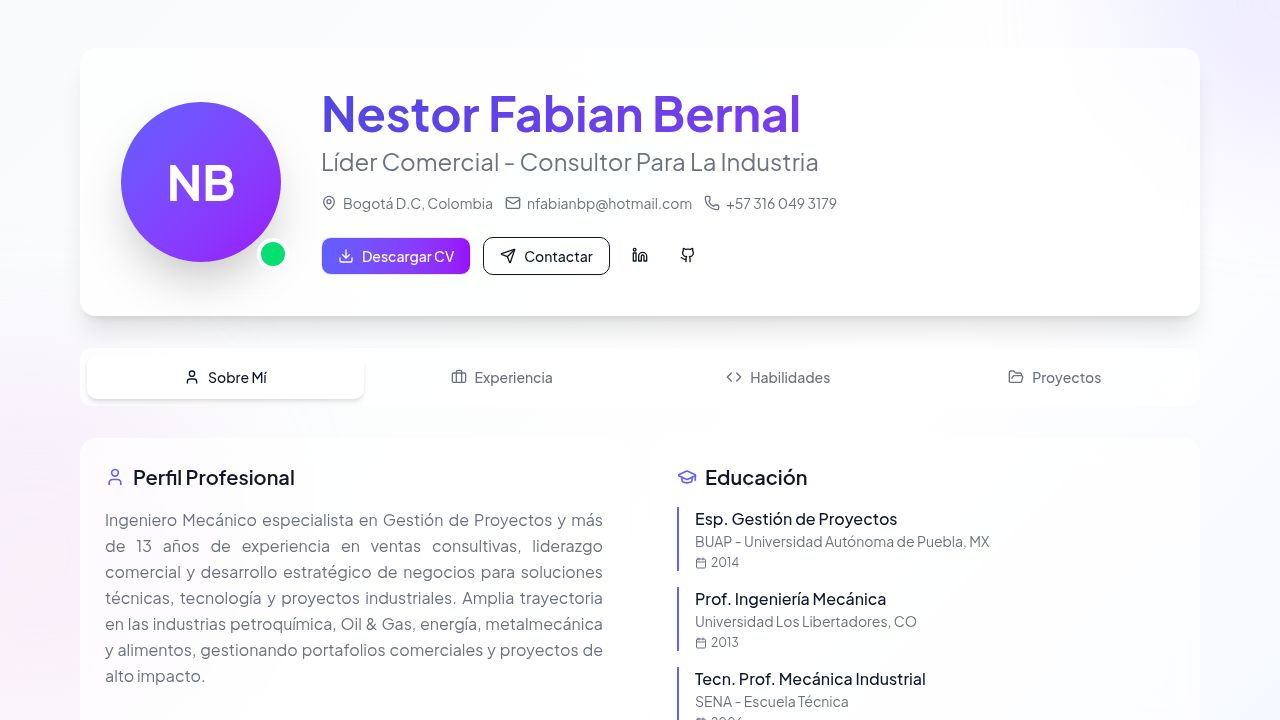
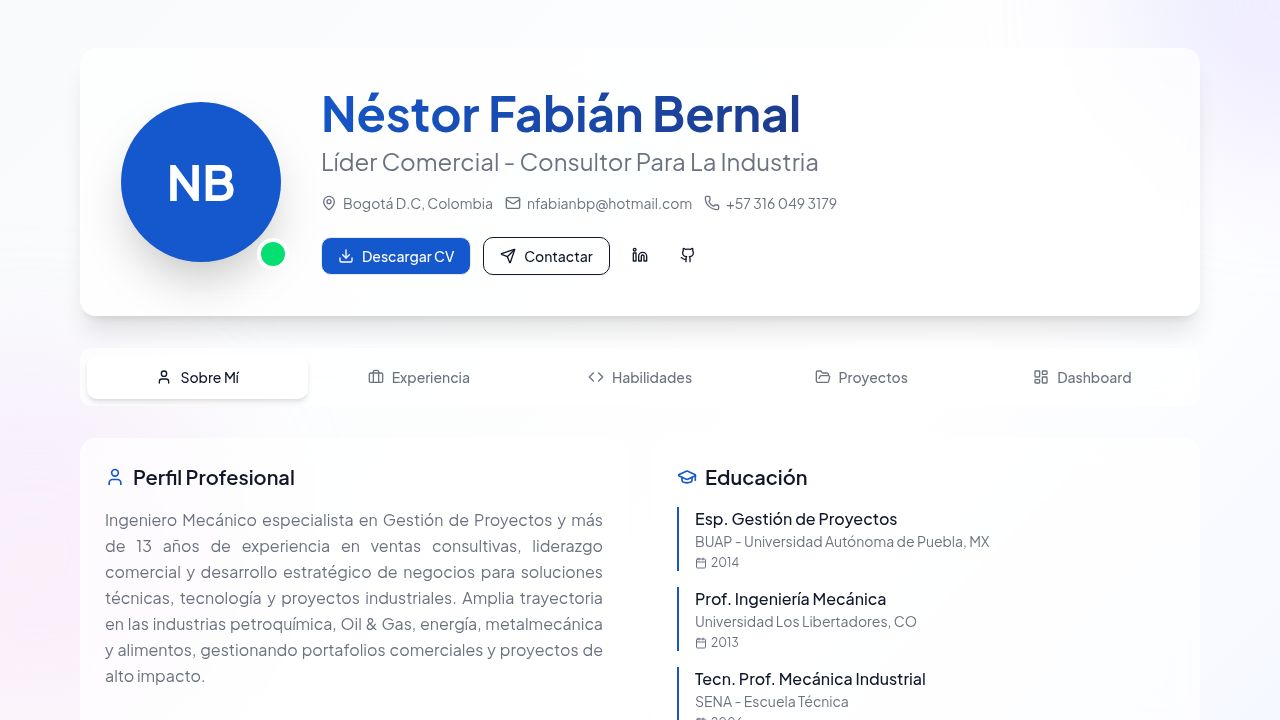
Update the website's primary color to a new shade of blue
Modify CSS variables and component styles in `client/index.css` and `client/src/pages/resume.tsx` to reflect the new primary color #1557cc.

Replit-Commit-Author: Agent
Replit-Commit-Session-Id: 828f5ca5-3470-420c-8302-881651feb5ef
Replit-Commit-Checkpoint-Type: full_checkpoint
Replit-Commit-Event-Id: aa67bb7c-5a23-4d16-8111-3fa36d46ec3d
Replit-Commit-Screenshot-Url: https://storage.googleapis.com/screenshot-production-us-central1/3b203910-4ea5-47d2-b5c2-e4d225c7a30f/828f5ca5-3470-420c-8302-881651feb5ef/2GFoAX9
Replit-Helium-Checkpoint-Created: true

diff --git a/client/src/pages/resume.tsx b/client/src/pages/resume.tsx
@@ -153,7 +153,7 @@ export default function Resume() {
               whileHover={{ scale: 1.05 }}
               transition={{ type: "spring", stiffness: 300 }}
             >
-              <div className="w-32 h-32 md:w-40 md:h-40 rounded-full bg-[#142157] flex items-center justify-center text-white text-4xl md:text-5xl font-bold shadow-2xl">
+              <div className="w-32 h-32 md:w-40 md:h-40 rounded-full bg-[#1557cc] flex items-center justify-center text-white text-4xl md:text-5xl font-bold shadow-2xl">
                 NB
               </div>
               <div className="absolute -bottom-2 -right-2 w-8 h-8 bg-green-400 rounded-full border-4 border-white" />
@@ -183,7 +183,7 @@ export default function Resume() {
               </div>
 
               <div className="flex flex-wrap justify-center md:justify-start gap-3">
-                <Button className="gap-2 bg-[#142157] hover:bg-[#1e3a8a]" data-testid="button-download-cv">
+                <Button className="gap-2 bg-[#1557cc] hover:bg-[#1e3a8a]" data-testid="button-download-cv">
                   <Download className="w-4 h-4" />
                   Descargar CV
                 </Button>
@@ -244,7 +244,7 @@ export default function Resume() {
               >
                 <div className="glass rounded-2xl p-6 card-hover">
                   <h2 className="text-xl font-semibold mb-4 flex items-center gap-2">
-                    <User className="w-5 h-5 text-[#142157]" />
+                    <User className="w-5 h-5 text-[#1557cc]" />
                     Perfil Profesional
                   </h2>
                   <p className="text-muted-foreground leading-relaxed whitespace-pre-line text-justify" data-testid="text-bio">
@@ -254,12 +254,12 @@ export default function Resume() {
 
                 <div className="glass rounded-2xl p-6 card-hover">
                   <h2 className="text-xl font-semibold mb-4 flex items-center gap-2">
-                    <GraduationCap className="w-5 h-5 text-[#142157]" />
+                    <GraduationCap className="w-5 h-5 text-[#1557cc]" />
                     Educación
                   </h2>
                   <div className="space-y-4">
                     {education.map((edu, index) => (
-                      <div key={index} className="border-l-2 border-[#142157] pl-4">
+                      <div key={index} className="border-l-2 border-[#1557cc] pl-4">
                         <h3 className="font-medium" data-testid={`text-degree-${index}`}>{edu.degree}</h3>
                         <p className="text-sm text-muted-foreground">{edu.school}</p>
                         <p className="text-xs text-muted-foreground flex items-center gap-1 mt-1">
@@ -271,14 +271,14 @@ export default function Resume() {
                   </div>
 
                   <h2 className="text-xl font-semibold mb-4 mt-14 flex items-center gap-2">
-                    <Languages className="w-5 h-5 text-[#142157]" />
+                    <Languages className="w-5 h-5 text-[#1557cc]" />
                     Idiomas
                   </h2>
                   <div className="space-y-2">
-                    <div className="border-l-2 border-[#142157] pl-4">
+                    <div className="border-l-2 border-[#1557cc] pl-4">
                       <h3 className="font-medium" data-testid="text-language-english">Inglés B2 - Intermedio</h3>
                     </div>
-                    <div className="border-l-2 border-[#142157] pl-4">
+                    <div className="border-l-2 border-[#1557cc] pl-4">
                       <h3 className="font-medium" data-testid="text-language-spanish">Español - Nativo</h3>
                     </div>
                   </div>
@@ -286,7 +286,7 @@ export default function Resume() {
 
                 <div className="glass rounded-2xl p-6 card-hover md:col-span-2">
                   <h2 className="text-xl font-semibold mb-4 flex items-center gap-2">
-                    <Award className="w-5 h-5 text-[#142157]" />
+                    <Award className="w-5 h-5 text-[#1557cc]" />
                     Certificaciones
                   </h2>
                   <div className="flex flex-wrap gap-3">
@@ -294,7 +294,7 @@ export default function Resume() {
                       <Badge 
                         key={index} 
                         variant="secondary" 
-                        className="px-4 py-2 text-sm bg-gradient-to-r from-blue-50 to-slate-50 border border-[#142157]/20"
+                        className="px-4 py-2 text-sm bg-gradient-to-r from-blue-50 to-slate-50 border border-[#1557cc]/20"
                         data-testid={`badge-cert-${index}`}
                       >
                         {cert}
@@ -323,7 +323,7 @@ export default function Resume() {
                     <div className="flex flex-col md:flex-row md:items-start md:justify-between gap-4 mb-4">
                       <div>
                         <h3 className="text-xl font-semibold text-foreground whitespace-pre-line">{exp.role}</h3>
-                        <p className="text-[#142157] font-medium">{exp.company}</p>
+                        <p className="text-[#1557cc] font-medium">{exp.company}</p>
                       </div>
                       <Badge variant="outline" className="w-fit flex items-center gap-1.5">
                         <Calendar className="w-3.5 h-3.5" />
@@ -335,7 +335,7 @@ export default function Resume() {
                       {exp.technologies.map((tech, techIndex) => (
                         <Badge 
                           key={techIndex} 
-                          className="bg-[#142157]/10 text-[#142157] hover:bg-[#142157]/20"
+                          className="bg-[#1557cc]/10 text-[#1557cc] hover:bg-[#1557cc]/20"
                         >
                           {tech}
                         </Badge>
@@ -361,7 +361,7 @@ export default function Resume() {
                         variant={skillFilter === filter ? "default" : "outline"}
                         size="sm"
                         onClick={() => setSkillFilter(filter)}
-                        className={skillFilter === filter ? "bg-[#142157]" : ""}
+                        className={skillFilter === filter ? "bg-[#1557cc]" : ""}
                         data-testid={`button-filter-${filter}`}
                       >
                         {filter === "all" ? "Todas" : "Software"}
@@ -466,7 +466,7 @@ export default function Resume() {
                     transition={{ delay: 0.1 }}
                   >
                     <div className="flex items-center gap-3 mb-2">
-                      <div className="p-2 rounded-lg bg-[#142157]">
+                      <div className="p-2 rounded-lg bg-[#1557cc]">
                         <TrendingUp className="w-5 h-5 text-white" />
                       </div>
                       <span className="text-sm text-muted-foreground">Años Exp.</span>
@@ -528,13 +528,13 @@ export default function Resume() {
                     transition={{ delay: 0.3 }}
                   >
                     <h3 className="text-lg font-semibold mb-4 flex items-center gap-2">
-                      <Briefcase className="w-5 h-5 text-[#142157]" />
+                      <Briefcase className="w-5 h-5 text-[#1557cc]" />
                       Trayectoria Profesional
                     </h3>
                     <div className="space-y-4">
                       {experiences.map((exp, index) => (
                         <div key={exp.id} className="flex items-start gap-3">
-                          <div className="w-3 h-3 rounded-full bg-[#142157] mt-1.5 flex-shrink-0" />
+                          <div className="w-3 h-3 rounded-full bg-[#1557cc] mt-1.5 flex-shrink-0" />
                           <div className="flex-1">
                             <div className="flex justify-between items-start flex-wrap gap-2">
                               <p className="font-medium text-sm">{exp.company}</p>
@@ -554,7 +554,7 @@ export default function Resume() {
                     transition={{ delay: 0.35 }}
                   >
                     <h3 className="text-lg font-semibold mb-4 flex items-center gap-2">
-                      <Code className="w-5 h-5 text-[#142157]" />
+                      <Code className="w-5 h-5 text-[#1557cc]" />
                       Dominio de Herramientas
                     </h3>
                     <div className="space-y-3">
@@ -586,15 +586,15 @@ export default function Resume() {
                     transition={{ delay: 0.4 }}
                   >
                     <h3 className="text-lg font-semibold mb-4 flex items-center gap-2">
-                      <GraduationCap className="w-5 h-5 text-[#142157]" />
+                      <GraduationCap className="w-5 h-5 text-[#1557cc]" />
                       Formación
                     </h3>
                     <div className="space-y-3">
                       {education.map((edu, index) => (
-                        <div key={index} className="border-l-2 border-[#142157] pl-3">
+                        <div key={index} className="border-l-2 border-[#1557cc] pl-3">
                           <p className="font-medium text-sm">{edu.degree}</p>
                           <p className="text-xs text-muted-foreground">{edu.school}</p>
-                          <p className="text-xs text-[#142157]">{edu.year}</p>
+                          <p className="text-xs text-[#1557cc]">{edu.year}</p>
                         </div>
                       ))}
                     </div>
@@ -607,13 +607,13 @@ export default function Resume() {
                     transition={{ delay: 0.45 }}
                   >
                     <h3 className="text-lg font-semibold mb-4 flex items-center gap-2">
-                      <Award className="w-5 h-5 text-[#142157]" />
+                      <Award className="w-5 h-5 text-[#1557cc]" />
                       Certificaciones
                     </h3>
                     <div className="space-y-2">
                       {certifications.map((cert, index) => (
                         <div key={index} className="flex items-center gap-2">
-                          <div className="w-2 h-2 rounded-full bg-[#142157]" />
+                          <div className="w-2 h-2 rounded-full bg-[#1557cc]" />
                           <p className="text-sm">{cert}</p>
                         </div>
                       ))}
@@ -627,14 +627,14 @@ export default function Resume() {
                     transition={{ delay: 0.5 }}
                   >
                     <h3 className="text-lg font-semibold mb-4 flex items-center gap-2">
-                      <Languages className="w-5 h-5 text-[#142157]" />
+                      <Languages className="w-5 h-5 text-[#1557cc]" />
                       Idiomas
                     </h3>
                     <div className="space-y-3">
                       <div>
                         <div className="flex justify-between text-sm mb-1">
                           <span>Español</span>
-                          <span className="text-[#142157]">Nativo</span>
+                          <span className="text-[#1557cc]">Nativo</span>
                         </div>
                         <div className="h-2 bg-slate-100 rounded-full overflow-hidden">
                           <motion.div
@@ -648,7 +648,7 @@ export default function Resume() {
                       <div>
                         <div className="flex justify-between text-sm mb-1">
                           <span>Inglés</span>
-                          <span className="text-[#142157]">B2 - Intermedio</span>
+                          <span className="text-[#1557cc]">B2 - Intermedio</span>
                         </div>
                         <div className="h-2 bg-slate-100 rounded-full overflow-hidden">
                           <motion.div
@@ -670,7 +670,7 @@ export default function Resume() {
                   transition={{ delay: 0.55 }}
                 >
                   <h3 className="text-lg font-semibold mb-4 flex items-center gap-2">
-                    <FolderOpen className="w-5 h-5 text-[#142157]" />
+                    <FolderOpen className="w-5 h-5 text-[#1557cc]" />
                     Proyectos Destacados
                   </h3>
                   <div className="grid md:grid-cols-3 gap-4">
@@ -697,14 +697,14 @@ export default function Resume() {
                   transition={{ delay: 0.6 }}
                 >
                   <h3 className="text-lg font-semibold mb-4 flex items-center gap-2">
-                    <Target className="w-5 h-5 text-[#142157]" />
+                    <Target className="w-5 h-5 text-[#1557cc]" />
                     Industrias de Experiencia
                   </h3>
                   <div className="flex flex-wrap gap-2">
                     {["Oil & Gas", "Energía", "Petroquímica", "Alimentos", "Metalmecánica", "Construcción Naval", "Hidroeléctrica"].map((industry, index) => (
                       <Badge 
                         key={index}
-                        className="px-4 py-2 bg-[#142157] text-white"
+                        className="px-4 py-2 bg-[#1557cc] text-white"
                       >
                         {industry}
                       </Badge>

diff --git a/client/src/index.css b/client/src/index.css
@@ -82,7 +82,7 @@
   }
 
   .gradient-text {
-    background: linear-gradient(135deg, #142157 0%, #1e3a8a 100%);
+    background: linear-gradient(135deg, #1557cc 0%, #1e3a8a 100%);
     -webkit-background-clip: text;
     -webkit-text-fill-color: transparent;
     background-clip: text;
@@ -98,6 +98,6 @@
   }
 
   .skill-bar {
-    background: linear-gradient(90deg, #142157 0%, #1e3a8a 100%);
+    background: linear-gradient(90deg, #1557cc 0%, #1e3a8a 100%);
   }
 }
